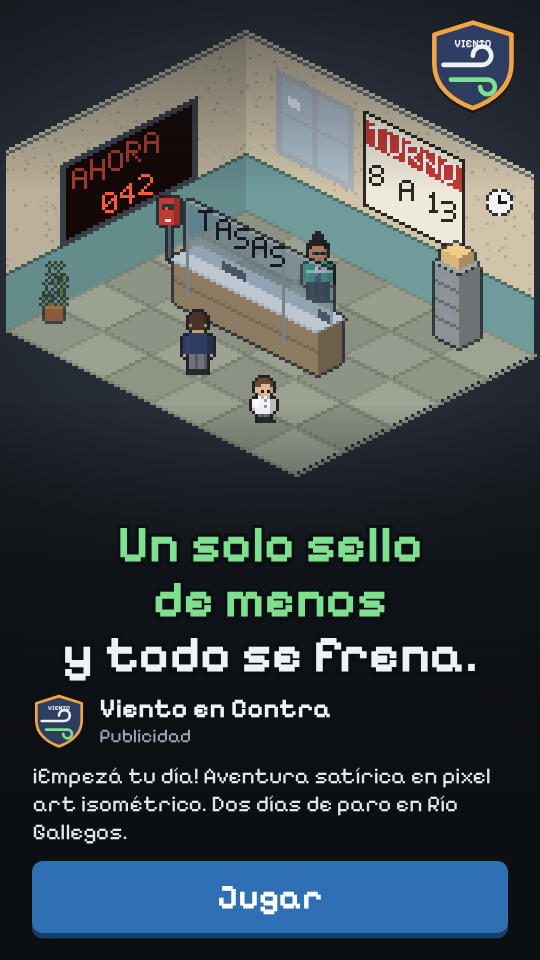
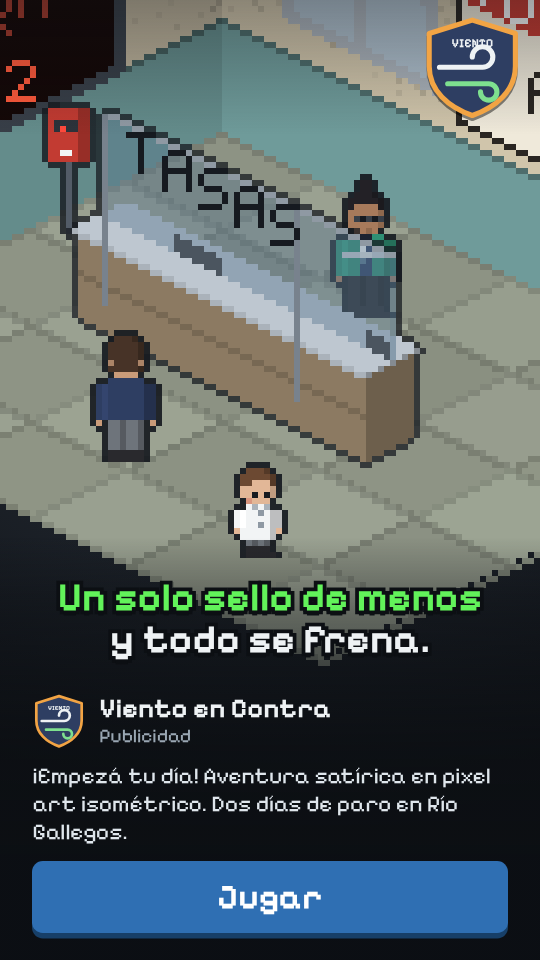
Corrige el punto de prueba del piso y actualiza la captura
- El test medía (98,120), que cae sobre la cara frontal del mostrador:
  pasaba aunque no hubiera piso. Ahora mide (98,150), piso libre.
- La captura de docs/promo refleja el estado actual de la página (zoom 2x
  incluido).

Claude-Session: https://claude.ai/code/session_01YG3Tmf8iEE63UCxNsymJJc

diff --git a/tests/promo-escena.test.ts b/tests/promo-escena.test.ts
@@ -11,9 +11,9 @@ describe('escena del reel de anuncio', () => {
     expect(pc.w).toBe(ESCENA_W);
     expect(pc.h).toBe(ESCENA_H);
     const alfa = (x: number, y: number) => pc.get(x, y) >>> 24;
-    // pared del fondo (dentro de la sala) y piso: opacos
+    // pared del fondo (dentro de la sala) y piso libre de props (no el mostrador): opacos
     expect(alfa(82, 40)).toBe(255);
-    expect(alfa(98, 120)).toBe(255);
+    expect(alfa(98, 150)).toBe(255);
     // debajo del piso no hay nada: lo pone el velo de la página
     expect(alfa(0, ESCENA_H - 1)).toBe(0);
   });
